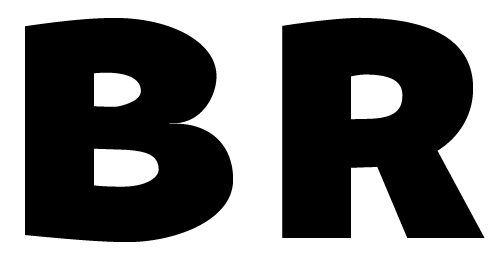
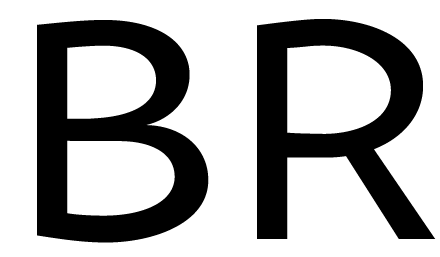
botão corrigido

diff --git a/site/css/pesos.css b/site/css/pesos.css
@@ -1,0 +1,160 @@
+* {
+    margin: 0px;
+    padding: 0px;
+    font-family: Arial, Helvetica, sans-serif;
+}
+h1 {text-align: center;}
+#pesos {
+    position: relative;
+    background-color: rgb(10, 223, 152);
+    display: flex;
+    flex-direction: row;
+    height: 80vh;
+    padding-top: 10vh;
+}
+
+.conteiner {
+    background-color: aquamarine;
+    margin: .28em;
+    padding: 1em;
+    height: 360px; 
+    text-align: center;
+    vertical-align: baseline;   
+    text-align: center;
+    vertical-align: top;
+}
+
+.ceb-23 {
+    width: 409px;
+    background: url(../imagens/BR-23.png) ;
+    background-repeat: no-repeat;
+    background-position: bottom center;
+
+    
+}
+.ceb-23:hover {
+    background: url(../imagens/BR-24.png) ;
+    background-repeat: no-repeat;
+    background-position: bottom center;
+}
+.ceb-23::after { content: "Cebrreja 23 Extra Light Wide";}
+.ceb-23:hover::after { content: "Cebrreja 24 Extra Light Italic Wide";}
+
+.ceb-33 {
+    width: 248px;
+    background: url(../imagens/BR-33.png) ;
+    background-repeat: no-repeat;
+    background-position: bottom center;
+}
+.ceb-33:hover {
+    background: url(../imagens/BR-34.png) ;
+    background-repeat: no-repeat;
+    background-position: bottom center;
+}
+.ceb-33::after {content: "Cebrreja 33 Light  Wide";}
+.ceb-33:hover::after { content: "Cebrreja 34 Light Italic Wd";}
+.ceb-43 {
+    width: 128px;
+    background: url(../imagens/BR-43.png) ;
+    background-repeat: no-repeat;
+    background-position: bottom center;
+}
+.ceb-43:hover {
+    background: url(../imagens/BR-44.png) ;
+    background-repeat: no-repeat;
+    background-position: bottom center;
+}
+.ceb-43::after { content: "Cebrreja 43 Wide";}
+.ceb-43:hover::after { content: "Cebrreja 44 ItWd";}
+.ceb-53 {
+    width: 101px;
+    background: url(../imagens/BR-53.png) ;
+    background-repeat: no-repeat;
+    background-position: bottom center;
+}
+.ceb-53:hover {
+    background: url(../imagens/BR-54.png) ;
+    background-repeat: no-repeat;
+    background-position: bottom center;
+}
+.ceb-53::after { content: "Cebrreja 53 Medium Wide";}
+.ceb-53:hover::after { content: "Cebrreja 54 Medium ItWd";}
+.ceb-63 {
+    width: 78px;
+    background: url(../imagens/BR-63.png) ;
+    background-repeat: no-repeat;
+    background-position:bottom center;
+}
+.ceb-63:hover {
+    background: url(../imagens/BR-64.png) ;
+    background-repeat: no-repeat;
+    background-position: bottom center;
+}
+.ceb-63::after {content: "Cebrreja 63 Bold Wide";}
+.ceb-63:hover::after { content: "Cebrreja 64 Bold ItWd";}
+.ceb-73 {
+    width: 62px;
+    background: url(../imagens/BR-73.png) ;
+    background-repeat: no-repeat;
+    background-position: bottom center;
+}
+.ceb-73:hover {
+    background: url(../imagens/BR-74.png) ;
+    background-repeat: no-repeat;
+    background-position: bottom center;
+}
+.ceb-73::after { content: "Cebrreja 73 Heavy Wide";}
+.ceb-73:hover::after { content: "Cebrreja 74 Heavy ItWd";}
+.ceb-83 {
+    width: 53px;
+    background: url(../imagens/BR-83.png) ;
+    background-repeat: no-repeat;
+    background-position: bottom center;
+}
+.ceb-83:hover {
+    background: url(../imagens/BR-84.png) ;
+    background-repeat: no-repeat;
+    background-position: bottom center;
+}
+.ceb-83::after { content: "Cebrreja 83 Black Wide";}
+.ceb-83:hover::after { content: "Cebrreja 84 Black ItWd";}
+
+#botao {
+    position: absolute;
+    padding-left: 10vw;
+    padding-top: 65vh;
+}
+
+input[type="checkbox"]{
+    position: relative;
+    width: 36px;
+    height: 18px;
+    -webkit-appearance: none;
+    background-color: rgba(0, 0, 0, 0.651);
+    border-top: 1px solid rgba(0, 0, 0, 0.212);
+    border-right: 1px solid rgba(0, 0, 0, 0.212);
+    border-bottom: 1px solid rgba(255, 255, 255, 0.411);
+    outline: none;
+    border-radius: 8px;
+    box-shadow: inset 0 0 1px rgba(128, 128, 128, 0.418);
+    transition: .2s;
+}
+input[type="checkbox"]::before{
+    content: '';
+    position:absolute;
+    width: 20px;
+    height: 20px;
+    border-radius: 50%;
+    top: 0;
+    left: 0;
+    background-color: white;
+    transform: translate(-4px, -3px) scale(1.05);
+    box-shadow: 0 1px 2px rgba(0, 0, 0, 0.205);
+    transition: .2s;
+}
+input[type="checkbox"]:hover::before{
+    transform: scale(1.1) translate(-2px, -1px);
+    box-shadow: 1px 1px rgba(0, 0, 0, 0.301);
+}
+input:checked[type="checkbox"]::before{left: 20px;}
+input:checked[type="checkbox"]{background-color: rgba(128, 255, 0, 0.555);}

diff --git a/site/index.html b/site/index.html
@@ -1,0 +1,81 @@
+<!DOCTYPE html>
+<html lang="pt-br">
+<head>
+    <meta charset="UTF-8">
+    <meta name="viewport" content="width=device-width, initial-scale=1.0">
+    <title>Seção de pesos e tamanhos</title>
+    <link rel="stylesheet" href="css/pesos.css">
+</head>
+<body>
+    <h1>Fontes do Extra Light ao Black</h1>
+    <section id="pesos">
+        
+            <div id="23" class="conteiner ceb-23"><span data-content="">120pt </span></div>
+            <div id="33" class="conteiner ceb-33"><span>66pt </span></div>
+            <div id="43" class="conteiner ceb-43"><span>38pt </span></div>
+            <div id="53" class="conteiner ceb-53"><span></span></div>
+            <div id="63" class="conteiner ceb-63"></div>
+            <div id="73" class="conteiner ceb-73"></div>
+            <div id="83" class="conteiner ceb-83"></div>
+
+            <div id="botao">
+                <input type="checkbox" name="btn1" id="checkbox">
+            </div>
+
+    </section>
+    <p>Ela foi planejada para ser muito robusta, e seus diferentes pesos podem ser usados com a intenção de dar aparência consistente de seu traçado em uma variedade de tamanhos. Como regra geral para a fonte Alumina, tente mover um peso mais pesado para três quartos do tamanho do ponto; dois pesos mais pesados na metade do tamanho; três pesos mais pesados em um terço do tamanho; quatro pesos mais pesados para um quarto do tamanho e continue com essa lógica. Como sempre, tenha em mente que esse tipo de redução geralmente se beneficia com um pouco de espaçamento de letras extras, e um aumento para o seu tamanho entrelinha.
+    </p>
+
+    <script>
+        let check01 = window.document.querySelector(".ceb-23")
+        let check02 = window.document.querySelector(".ceb-33")
+        let check03 = window.document.querySelector(".ceb-43")
+        let check04 = window.document.querySelector(".ceb-53")
+        let check05 = window.document.querySelector(".ceb-63")
+        let check06 = window.document.querySelector(".ceb-73")
+        let check07 = window.document.querySelector(".ceb-83")
+        var btn = document.getElementById("botao");
+        btn.addEventListener("click", reverter);
+        function reverter(){
+            if(check01.style.width == '409px'){  
+            check01.style.width = '440px'
+            check01.style.background = 'bottom center url(imagens/BR-83b.png) no-repeat'
+            check02.style.width = '254px'
+            check02.style.background = 'bottom center url(imagens/BR-73b.png) no-repeat'
+            check03.after.contente='Cebrreja 43 Wide'
+            check03.style.width = '168px'
+            check03.style.background = 'bottom center url(imagens/BR-63b.png) no-repeat'
+
+            check04.style.width = '126px'
+            check04.style.background = 'bottom center url(imagens/BR-53b.png) no-repeat'
+            check05.style.width = '89px'
+            check05.style.background = 'bottom center url(imagens/BR-43b.png) no-repeat'
+            check06.style.width = '73px'
+            check06.style.background = 'bottom center url(imagens/BR-33b.png) no-repeat'
+            check07.style.width = '44px'
+            check07.style.background = 'bottom center url(imagens/BR-23b.png) no-repeat'
+            }else{
+            check01.style.width = '409px'
+            check01.style.background = 'bottom center url(imagens/BR-23.png) no-repeat'
+            check02.style.width = '254px'
+            check02.style.background = 'bottom center url(imagens/BR-33.png) no-repeat'
+            check03.after.contente='Cebrreja 43 Wide'
+            check03.style.width = '168px'
+            check03.style.background = 'bottom center url(imagens/BR-43.png) no-repeat'
+
+            check04.style.width = '126px'
+            check04.style.background = 'bottom center url(imagens/BR-53.png) no-repeat'
+            check05.style.width = '89px'
+            check05.style.background = 'bottom center url(imagens/BR-63.png) no-repeat'
+            check06.style.width = '73px'
+            check06.style.background = 'bottom center url(imagens/BR-73.png) no-repeat'
+            check07.style.width = '44px'
+            check07.style.background = 'bottom center url(imagens/BR-83.png) no-repeat'
+            } 
+        }
+    
+        
+    </script>
+    
+</body>
+</html>
